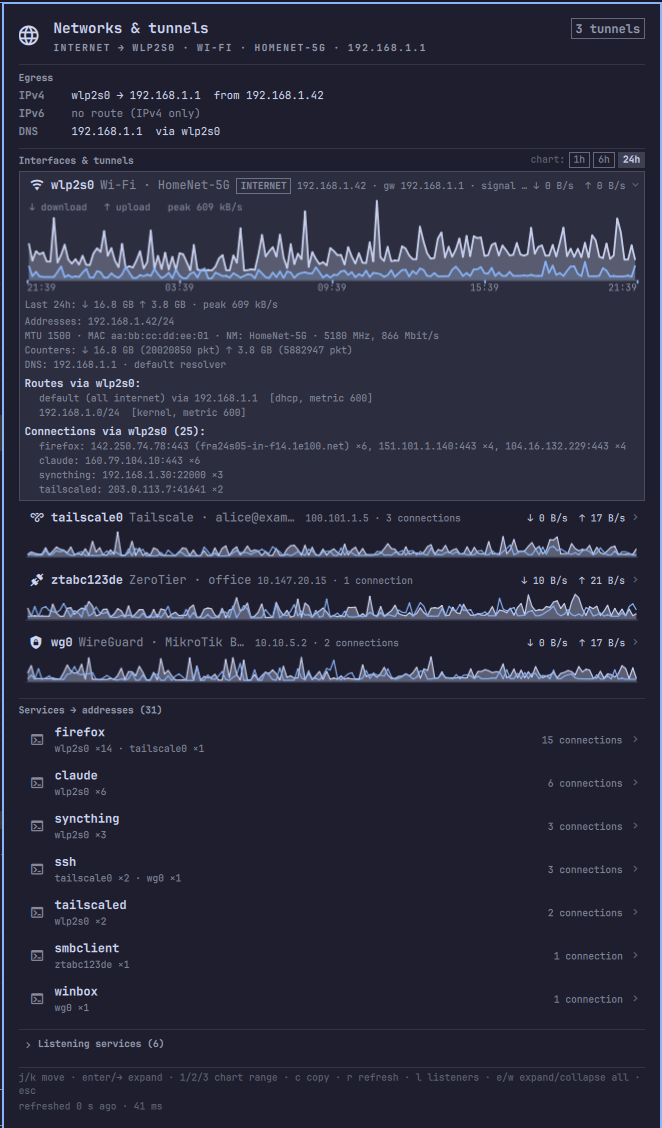
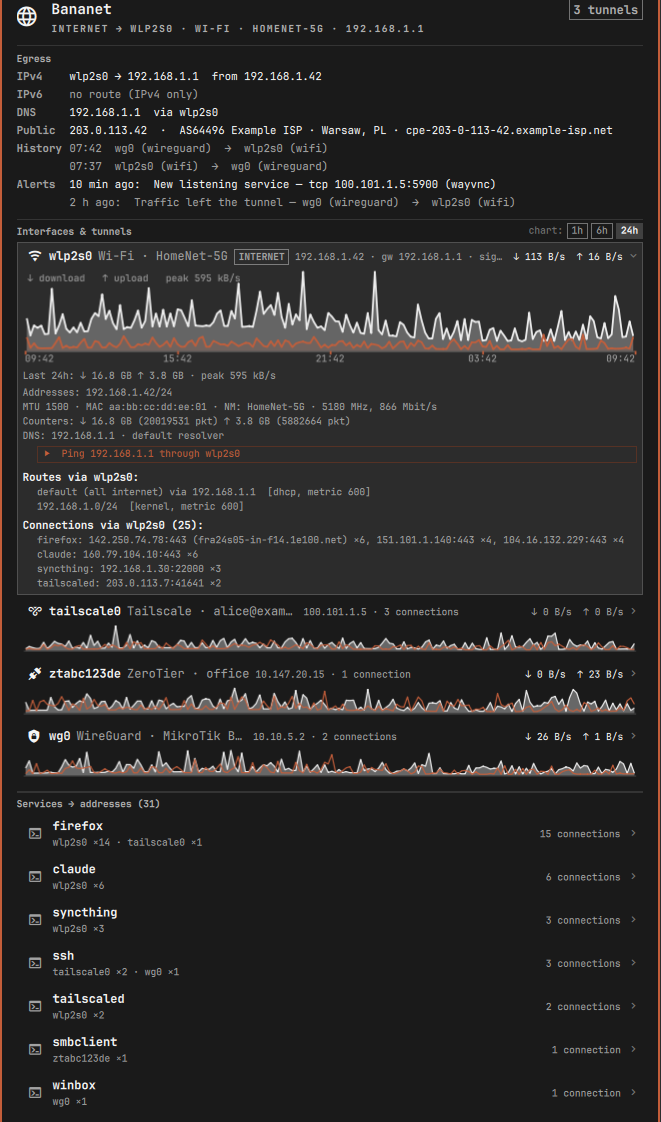
README screenshots for 1.2: alerts, history, ping through the link, new listeners
Claude-Session: https://claude.ai/code/session_01FpQiHt2oWoeVoZKnsxuhHB

Changed region(s): [[0.0, 0.0, 1.0, 1.0]]

diff --git a/README.md b/README.md
@@ -11,8 +11,8 @@ untunnelled. No root required; the widget detects what is installed and only use
 degrades gracefully, and tells you what one command would unlock.
 
 <p align="center">
-  <img src="screenshots/panel.png" width="49%" alt="Panel: egress, interfaces with sparklines, services">
-  <img src="screenshots/panel-chart-24h.png" width="49%" alt="Wi-Fi expanded: 24 h chart, routes, connections">
+  <img src="screenshots/panel.png" width="49%" alt="Panel: egress with history and alerts, interfaces with sparklines, services, listeners">
+  <img src="screenshots/panel-chart-24h.png" width="49%" alt="Wi-Fi expanded: 24 h chart, ping through the link, routes, connections">
 </p>
 
 ## Install
